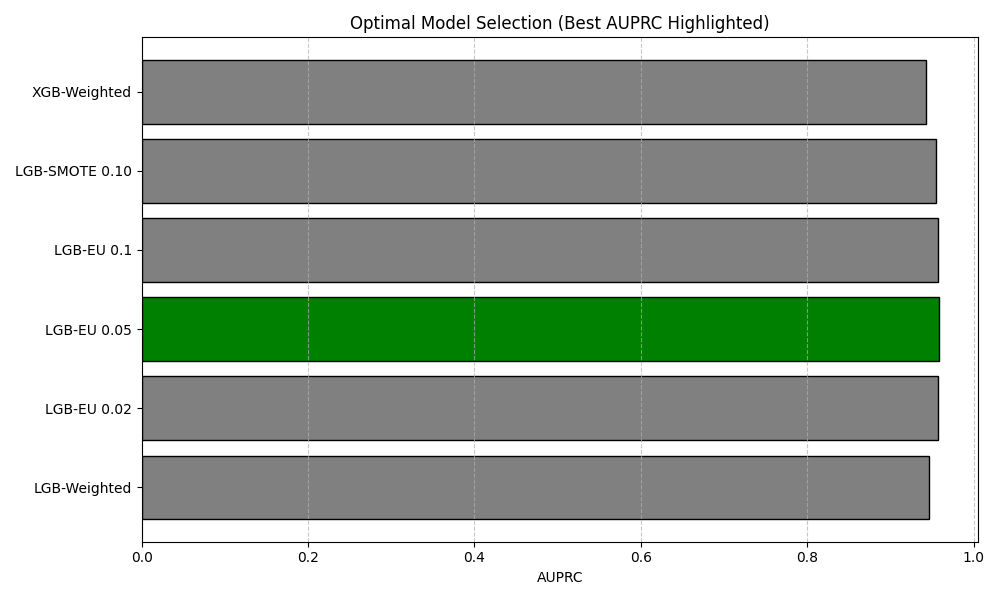
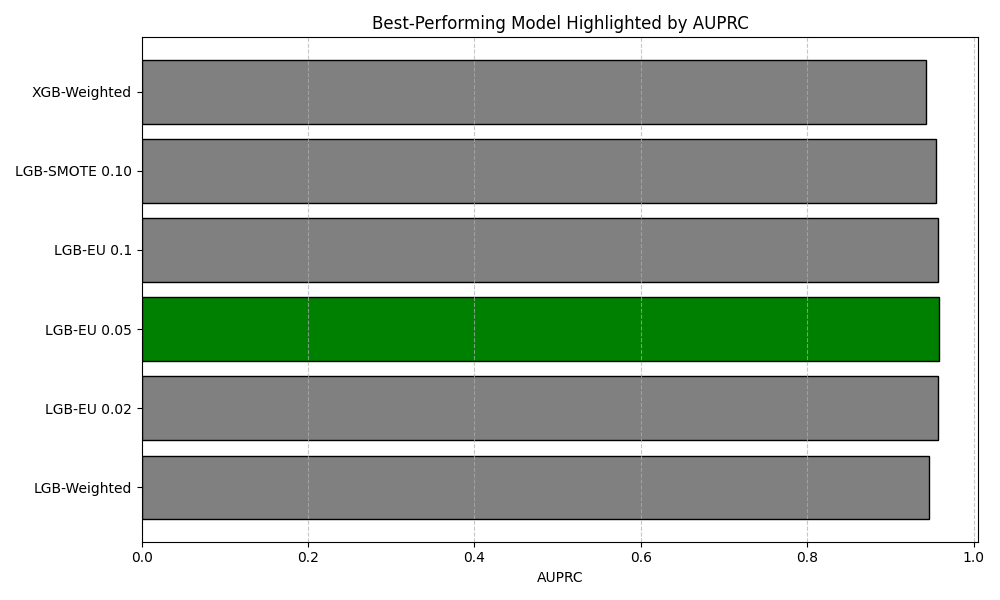
1.Added image assets, 2.build model comparison nd plot codes, 3.edited model to save precitions, 4. edited config file -- pending 1.dashboard final, 2.folder structure cleanup

Changed region(s): [[0.341, 0.03, 0.775, 0.06]]

diff --git a/tools/plot_model_scores.py b/tools/plot_model_scores.py
@@ -1,42 +1,47 @@
-"""
-plot_model_scores.py
-
-Reads model performance metrics from CSV and generates 3 visualizations:
-1. AUROC vs AUPRC scatter plot
-2. AUPRC bar chart (all models)
-3. AUPRC bar chart with best model highlighted
-
-Figures are saved to: assets/images/
-"""
-
 import pandas as pd
 import matplotlib.pyplot as plt
+import numpy as np
 from pathlib import Path
+from adjustText import adjust_text
+from sklearn.metrics import (
+    roc_curve, precision_recall_curve, roc_auc_score,
+    average_precision_score, confusion_matrix, ConfusionMatrixDisplay
+)
+from sklearn.calibration import calibration_curve
+import lightgbm as lgb
 
 # -------------------------
 # Config
 # -------------------------
-CSV_PATH = "data/all_model_scores.csv"
+SCORES_PATH = "models/model_scores.csv"
+PRED_PATH = "models/final_predictions.csv"
+ALL_PRED_PATH = "models/final_predictions_all.csv"
 SAVE_DIR = Path("assets/images")
+MODEL_PATH = Path("models/booster_0.txt")
 SAVE_DIR.mkdir(parents=True, exist_ok=True)
 
 # -------------------------
 # Load model scores
 # -------------------------
-df = pd.read_csv(CSV_PATH)
+df = pd.read_csv(SCORES_PATH)
 assert {"Model", "AUROC", "AUPRC"}.issubset(df.columns), "CSV must contain Model, AUROC, and AUPRC columns."
 
 # -------------------------
 # 1. AUROC vs AUPRC scatter
 # -------------------------
-plt.figure(figsize=(10, 6))
-plt.scatter(df["AUROC"], df["AUPRC"], color='teal', s=100)
-for i, row in df.iterrows():
-    plt.text(row["AUROC"] + 0.0005, row["AUPRC"], row["Model"], fontsize=9)
+best_model = df.loc[df["AUPRC"].idxmax()]
+colors = ['green' if m == best_model["Model"] else 'steelblue' for m in df["Model"]]
+
+plt.figure(figsize=(12, 8))
+plt.scatter(df["AUROC"], df["AUPRC"], c=colors, s=120, edgecolor='black')
+texts = [plt.text(row["AUROC"], row["AUPRC"], row["Model"], fontsize=10) for _, row in df.iterrows()]
+adjust_text(texts, arrowprops=dict(arrowstyle='->', color='gray'))
 plt.xlabel("AUROC")
 plt.ylabel("AUPRC")
-plt.title("Model Predictive Performance")
-plt.grid(True)
+plt.title("Model Predictive Performance (AUROC vs AUPRC)")
+plt.grid(True, linestyle='--', alpha=0.5)
+plt.xlim(0.9985, 0.99935)
+plt.ylim(df["AUPRC"].min() - 0.001, df["AUPRC"].max() + 0.001)
 plt.tight_layout()
 plt.savefig(SAVE_DIR / "model_performance_scatter.png")
 plt.close()
@@ -47,7 +52,7 @@ plt.close()
 plt.figure(figsize=(10, 6))
 plt.barh(df["Model"], df["AUPRC"], color='orange', edgecolor='black')
 plt.xlabel("AUPRC")
-plt.title("Model Evaluation – AUPRC")
+plt.title("Model Evaluation Summary (AUPRC Scores)")
 plt.grid(True, axis='x', linestyle='--', alpha=0.7)
 plt.tight_layout()
 plt.savefig(SAVE_DIR / "model_auprc_barchart.png")
@@ -56,16 +61,129 @@ plt.close()
 # -------------------------
 # 3. Highlight best AUPRC
 # -------------------------
-best_model = df.loc[df["AUPRC"].idxmax()]
 colors = ['green' if model == best_model["Model"] else 'gray' for model in df["Model"]]
-
 plt.figure(figsize=(10, 6))
 plt.barh(df["Model"], df["AUPRC"], color=colors, edgecolor='black')
 plt.xlabel("AUPRC")
-plt.title("Optimal Model Selection (Best AUPRC Highlighted)")
+plt.title("Best-Performing Model Highlighted by AUPRC")
 plt.grid(True, axis='x', linestyle='--', alpha=0.7)
 plt.tight_layout()
 plt.savefig(SAVE_DIR / "model_best_auprc_highlighted.png")
 plt.close()
+
+# -------------------------
+# 4–7: Real Evaluation Curves for best model
+# -------------------------
+pred_df = pd.read_csv(PRED_PATH)
+y_true = pred_df["y_true"].values
+y_prob = pred_df["y_prob"].values
+
+# ROC Curve
+fpr, tpr, _ = roc_curve(y_true, y_prob)
+plt.figure(figsize=(8, 6))
+plt.plot(fpr, tpr, color="darkblue", label=f"AUROC = {roc_auc_score(y_true, y_prob):.4f}")
+plt.plot([0, 1], [0, 1], 'k--')
+plt.xlabel("False Positive Rate")
+plt.ylabel("True Positive Rate")
+plt.title("Receiver Operating Characteristic (ROC) Curve – Best Model")
+plt.legend()
+plt.grid(True)
+plt.tight_layout()
+plt.savefig(SAVE_DIR / "roc_curve.png")
+plt.close()
+
+# Precision-Recall Curve
+precision, recall, _ = precision_recall_curve(y_true, y_prob)
+plt.figure(figsize=(8, 6))
+plt.plot(recall, precision, color="teal", label=f"AUPRC = {average_precision_score(y_true, y_prob):.4f}")
+plt.xlabel("Recall")
+plt.ylabel("Precision")
+plt.title("Precision vs Recall – Best Model")
+plt.grid(True)
+plt.legend()
+plt.tight_layout()
+plt.savefig(SAVE_DIR / "pr_curve.png")
+plt.close()
+
+# Confusion Matrix
+cm = confusion_matrix(y_true, y_prob > 0.5)
+fig, ax = plt.subplots(figsize=(6, 5))
+ConfusionMatrixDisplay(confusion_matrix=cm).plot(ax=ax)
+plt.title("Confusion Matrix on Test Data")
+plt.tight_layout()
+plt.savefig(SAVE_DIR / "confusion_matrix.png")
+plt.close()
+
+# Calibration Curve
+prob_true, prob_pred = calibration_curve(y_true, y_prob, n_bins=10)
+plt.figure(figsize=(8, 6))
+plt.plot(prob_pred, prob_true, marker='o', color='firebrick', label="Model")
+plt.plot([0, 1], [0, 1], linestyle='--', label="Ideal")
+plt.xlabel("Predicted Probability")
+plt.ylabel("True Probability")
+plt.title("Model Calibration Curve – Ideal vs Predicted Probabilities")
+plt.legend()
+plt.grid(True)
+plt.tight_layout()
+plt.savefig(SAVE_DIR / "calibration_curve.png")
+plt.close()
+
+# -------------------------
+# 8. LightGBM Feature Importance (Gain)
+# -------------------------
+try:
+    booster = lgb.Booster(model_file=str(MODEL_PATH))
+    ax = lgb.plot_importance(booster, importance_type="gain", max_num_features=10, figsize=(10, 7), color="teal")
+    ax.set_title("Top Features Based on LightGBM Gain Importance", fontsize=14)
+    ax.figure.tight_layout()
+    ax.figure.savefig(SAVE_DIR / "lgbm_feature_importance.png")
+    plt.close()
+except Exception as e:
+    print("⚠ Could not plot feature importance:", e)
+
+# -------------------------
+# 9. All Model ROC + PR Curves
+# -------------------------
+try:
+    all_preds = pd.read_csv(ALL_PRED_PATH)
+    all_curves = all_preds.groupby("Model")
+
+    # ROC
+    plt.figure(figsize=(10, 8))
+    for name, group in all_curves:
+        fpr, tpr, _ = roc_curve(group["y_true"], group["y_prob"])
+        auroc = roc_auc_score(group["y_true"], group["y_prob"])
+        plt.plot(fpr, tpr, lw=2, label=f"{name} (AUROC={auroc:.4f})")
+    plt.plot([0, 1], [0, 1], linestyle="--", color="gray")
+    plt.xlabel("False Positive Rate")
+    plt.ylabel("True Positive Rate")
+    plt.title("ROC Curves for All Models")
+    plt.xlim(0.0, 0.1)
+    plt.ylim(0.9, 1.01)
+    plt.legend()
+    plt.grid(True)
+    plt.tight_layout()
+    plt.savefig(SAVE_DIR / "roc_curves_all_models.png")
+    plt.close()
+
+    # PR
+    plt.figure(figsize=(10, 8))
+    for name, group in all_curves:
+        precision, recall, _ = precision_recall_curve(group["y_true"], group["y_prob"])
+        auprc = average_precision_score(group["y_true"], group["y_prob"])
+        plt.plot(recall, precision, lw=2, label=f"{name} (AUPRC={auprc:.4f})")
+    plt.xlabel("Recall")
+    plt.ylabel("Precision")
+    plt.title("Precision-Recall Curves for All Models")
+    plt.xlim(0.0, 1)
+    plt.ylim(0.9, 1.01)
+    plt.legend()
+    plt.grid(True)
+    plt.tight_layout()
+    plt.savefig(SAVE_DIR / "pr_curves_all_models.png")
+    plt.close()
+
+except Exception as e:
+    print("⚠ Could not plot ROC/PR curves for all models:", e)
 
 print(f"✅ Plots saved to {SAVE_DIR.resolve()}")

diff --git a/tools/model_comparison.py b/tools/model_comparison.py
@@ -8,6 +8,7 @@ This script compares four fraud detection modeling strategies on the preprocesse
     4. Weighted XGBoost (Optuna)
 
 Outputs a sorted score table based on AUPRC and saves results as CSV.
+Also saves per-model predictions for evaluation curve plotting.
 """
 
 import sys
@@ -28,13 +29,15 @@ sys.path.append("src")
 from banksim_fraud.features import engineer, feature_list
 
 # Define metrics
-
 def pr_auc(y_true, y_proba):
     return average_precision_score(y_true, y_proba)
 
 # Load raw data and engineer features
 RAW_PATH = "data/bs140513_032310.csv"
-SAVE_PATH = "data/all_model_scores.csv"
+SAVE_PATH = "models/model_scores.csv"
+PRED_PATH = "models/final_predictions.csv"
+PRED_ALL_PATH = "models/final_predictions_all.csv"
+
 data_raw = pd.read_csv(RAW_PATH)
 data = engineer(data_raw)
 num_cols = feature_list(data)
@@ -51,6 +54,7 @@ assert len(X_test) > 0, "Test set is empty."
 # Class imbalance ratio
 pos_w = (y_train == 0).sum() / (y_train == 1).sum()
 scores = []
+predictions = []  # collect model name + predictions
 
 # -------------------------------------------------------------------
 # 1. Weighted LightGBM (Optuna)
@@ -79,6 +83,7 @@ lgb_best = LGBMClassifier(**study.best_params, scale_pos_weight=pos_w, objective
 lgb_best.fit(X_train, y_train)
 pred_lgb = lgb_best.predict_proba(X_test)[:, 1]
 scores.append(("LGB-Weighted", pr_auc(y_test, pred_lgb), roc_auc_score(y_test, pred_lgb)))
+predictions.append(("LGB-Weighted", pred_lgb))
 
 # -------------------------------------------------------------------
 # 2. Undersample Ensemble (5× LGBM)
@@ -95,7 +100,9 @@ def lgb_ensemble(ratio):
 
 for ratio in [0.02, 0.05, 0.10]:
     pred_eu = lgb_ensemble(ratio)
-    scores.append((f"LGB-EU {ratio}", pr_auc(y_test, pred_eu), roc_auc_score(y_test, pred_eu)))
+    model_name = f"LGB-EU {ratio}"
+    scores.append((model_name, pr_auc(y_test, pred_eu), roc_auc_score(y_test, pred_eu)))
+    predictions.append((model_name, pred_eu))
 
 # -------------------------------------------------------------------
 # 3. SMOTE + LightGBM
@@ -107,6 +114,7 @@ lgb_sm = LGBMClassifier(n_estimators=400, learning_rate=0.05, num_leaves=63, ran
 lgb_sm.fit(X_sm, y_sm)
 pred_sm = lgb_sm.predict_proba(X_test)[:, 1]
 scores.append(("LGB-SMOTE 0.10", pr_auc(y_test, pred_sm), roc_auc_score(y_test, pred_sm)))
+predictions.append(("LGB-SMOTE 0.10", pred_sm))
 
 # -------------------------------------------------------------------
 # 4. Weighted XGBoost (Optuna)
@@ -134,6 +142,7 @@ xgb_best = XGBClassifier(**study2.best_params, scale_pos_weight=pos_w, eval_metr
 xgb_best.fit(X_train, y_train)
 pred_xgb = xgb_best.predict_proba(X_test)[:, 1]
 scores.append(("XGB-Weighted", pr_auc(y_test, pred_xgb), roc_auc_score(y_test, pred_xgb)))
+predictions.append(("XGB-Weighted", pred_xgb))
 
 # -------------------------------------------------------------------
 # Save + Print Score Table
@@ -144,5 +153,27 @@ results.to_csv(SAVE_PATH, index=False)
 print("\n=== Out-of-Time Model Comparison ===")
 print(results.sort_values("AUPRC", ascending=False).to_string(index=False))
 
+# -------------------------------------------------------------------
+# Save per-model predictions (for plotting PR/ROC curves)
+# -------------------------------------------------------------------
+all_rows = []
+for name, preds in predictions:
+    for yt, yp in zip(y_test, preds):
+        all_rows.append({"Model": name, "y_true": yt, "y_prob": yp})
 
+pd.DataFrame(all_rows).to_csv(PRED_ALL_PATH, index=False)
+print(f"✅ Saved: {PRED_ALL_PATH}")
 
+# -------------------------------------------------------------------
+# Save best model predictions (standalone file for app or baseline eval)
+# -------------------------------------------------------------------
+best_idx = results["AUPRC"].idxmax()
+best_model_name = results.loc[best_idx, "Model"]
+best_pred = dict(predictions)[best_model_name]
+
+print(f"\nSaving predictions from best model: {best_model_name}")
+pd.DataFrame({
+    "y_true": y_test,
+    "y_prob": best_pred
+}).to_csv(PRED_PATH, index=False)
+print(f"✅ Saved: {PRED_PATH}")

diff --git a/tools/dashboard.py b/tools/dashboard.py
@@ -8,7 +8,7 @@ import os
 DATA_PATH = "data/live_scored_txns.csv"
 
 st.set_page_config(layout="wide")
-st.title("🚨 Live BankSim Fraud Dashboard")
+st.title("Live BankSim Simulation Fraud Dashboard")
 
 placeholder = st.empty()
 
@@ -54,7 +54,7 @@ while True:
             df_time["rolling_rate"] = df_time["fraud"].rolling(50, min_periods=1).mean()
             st.line_chart(df_time.set_index("step")["rolling_rate"])
 
-            # 🧠 Model confidence histogram
+            # Model confidence histogram
             st.markdown("### 🧠 Fraud Probability Distribution")
             fig2, ax2 = plt.subplots(figsize=(6, 3))
             ax2.hist(df["probability"], bins=30, color="skyblue", edgecolor="black")

diff --git a/src/banksim_fraud/model.py b/src/banksim_fraud/model.py
@@ -53,3 +53,9 @@ def predict_proba(boosters: List[lgb.Booster], row_vec: np.ndarray) -> float:
 def classify(boosters: List[lgb.Booster], threshold: float, row_vec: np.ndarray):
     p = predict_proba(boosters, row_vec)
     return int(p >= threshold), p
+
+# ----------------------------------------------------------------
+def predict_batch(boosters: List[lgb.Booster], X: np.ndarray) -> np.ndarray:
+    preds = np.stack([b.predict(X) for b in boosters])
+    return np.mean(preds, axis=0)
+

diff --git a/src/banksim_fraud/config.py b/src/banksim_fraud/config.py
@@ -1,7 +1,7 @@
 from pathlib import Path
 
 # directory that holds the saved boosters + threshold.json
-MODEL_DIR = Path(__file__).resolve().parent / "models"
+MODEL_DIR = Path(__file__).resolve().parent.parent.parent / "models"
 MODEL_DIR.mkdir(exist_ok=True)
 
 # ensemble settings
